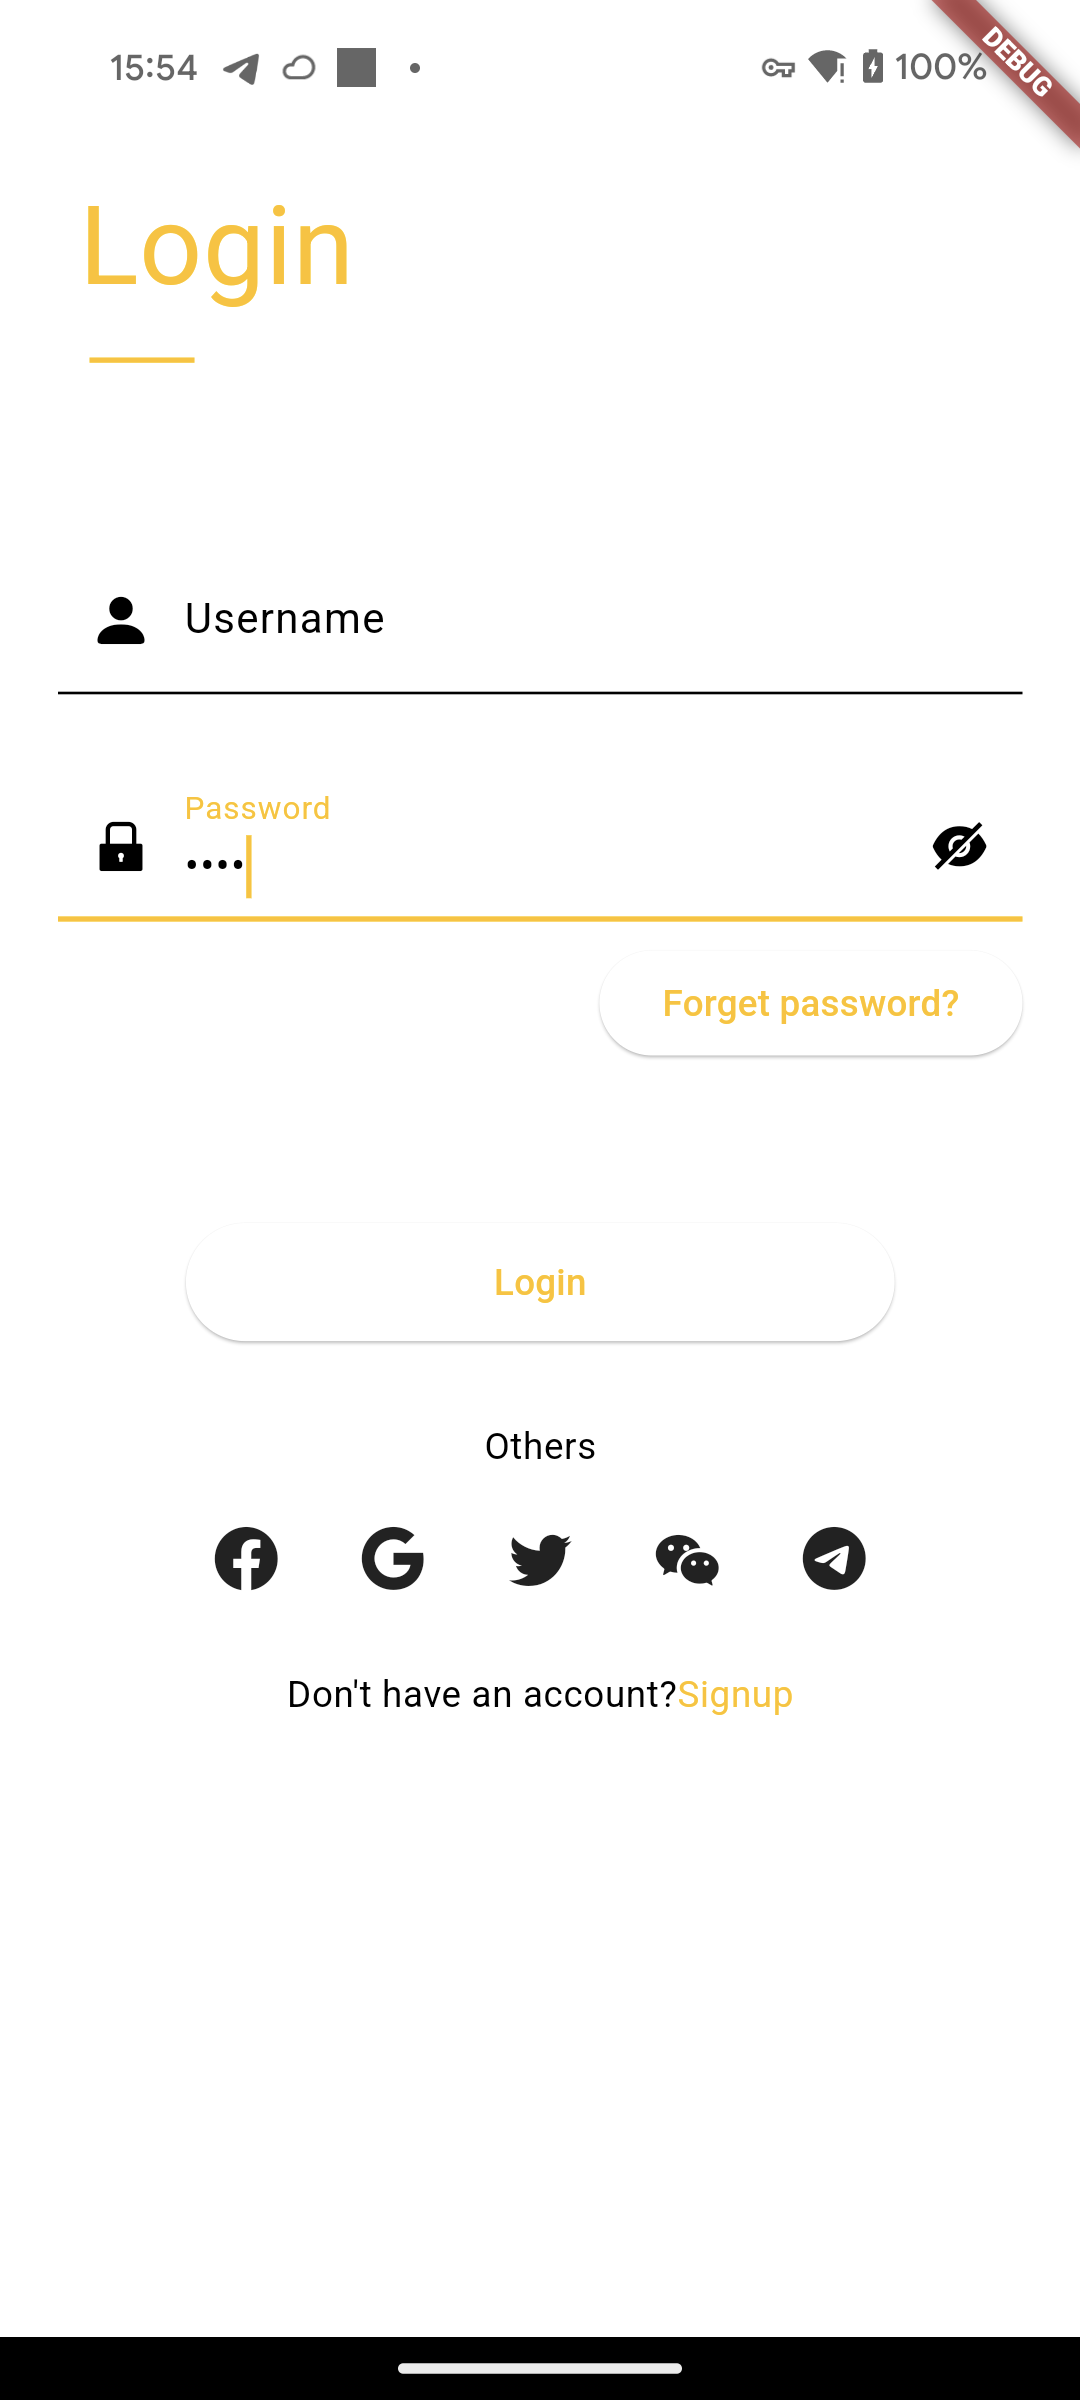
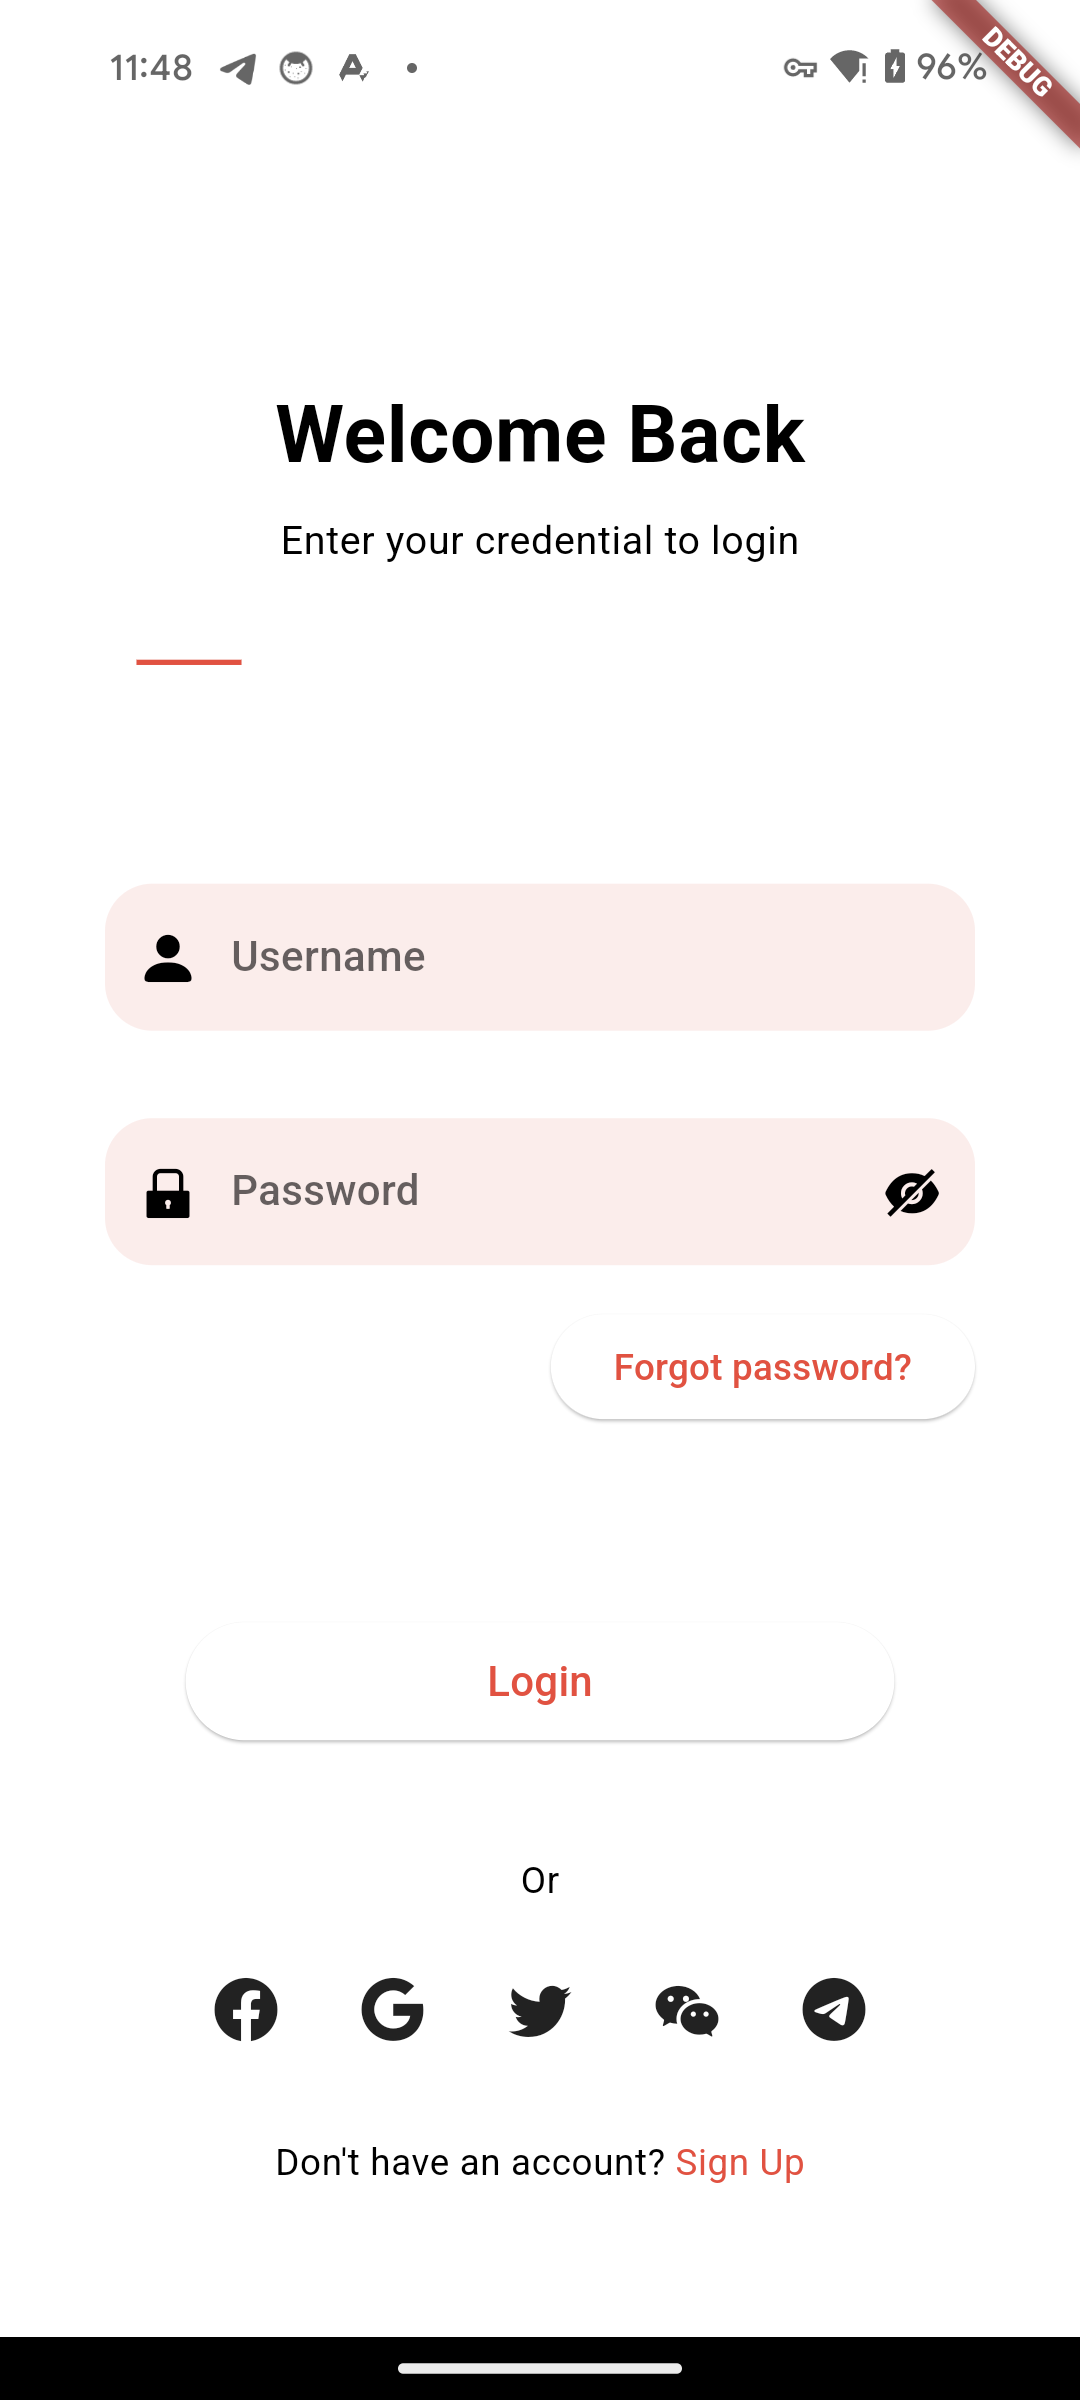
style: :lipstick: update login and signup page UI elements for better user experience

diff --git a/lib/routes/user/signup_page.dart b/lib/routes/user/signup_page.dart
@@ -1,0 +1,208 @@
+import 'package:flutter/material.dart';
+import 'package:flutter_hub/l10n/localization_intl.dart';
+import 'package:icons_plus/icons_plus.dart';
+
+import '../../common/index.dart';
+
+class SignupPage extends StatefulWidget {
+  @override
+  State<StatefulWidget> createState() => _SignupPageState();
+}
+
+class _SignupPageState extends State<SignupPage> {
+  final _formKey = GlobalKey<FormState>();
+  TextEditingController _unameController = TextEditingController();
+  TextEditingController _pwdController = TextEditingController();
+  TextEditingController _confirmpwdController = TextEditingController();
+  bool _isObscure = true;
+
+  @override
+  Widget build(BuildContext context) {
+    return Scaffold(
+      body: Form(
+        key: _formKey,
+        child: SingleChildScrollView(
+          child: Container(
+            padding: const EdgeInsets.symmetric(horizontal: 40),
+            height: MediaQuery.of(context).size.height - 50,
+            width: double.infinity,
+            child: Column(
+              mainAxisAlignment: MainAxisAlignment.spaceEvenly,
+              crossAxisAlignment: CrossAxisAlignment.stretch,
+              children: <Widget>[
+                SizedBox(
+                  height: kToolbarHeight,
+                ),
+                const SizedBox(height: 60.0),
+                buildTitle(),
+                const SizedBox(height: 10),
+                buildTitleLine(),
+                const SizedBox(height: 70.0),
+                buildUnameTextField(),
+                const SizedBox(height: 20.0),
+                buildPasswordTextField(context),
+                const SizedBox(height: 20.0),
+                buildConfirmPasswordTextField(context),
+                const SizedBox(height: 60.0),
+                buildSignupButton(context),
+                const SizedBox(height: 30.0),
+                buildLoginText(context),
+              ],
+            ),
+          ),
+        ),
+      ),
+    );
+  }
+
+  Padding buildTitle() {
+    return Padding(
+      padding: EdgeInsets.all(8.0),
+      child: Column(
+        children: [
+          Text(
+            WanLocalizations.of(context).signup_title,
+            style: TextStyle(fontSize: 30, fontWeight: FontWeight.bold),
+          ),
+          const SizedBox(height: 8),
+          Text(WanLocalizations.of(context).signup_subtitle, style: TextStyle(fontSize: 15)),
+        ],
+      ),
+    );
+  }
+
+  Padding buildTitleLine() {
+    return Padding(
+      padding: EdgeInsets.only(left: 12.0, top: 4.0),
+      child: Align(
+        alignment: Alignment.bottomLeft,
+        child: Container(
+          color: Theme.of(context).primaryColor,
+          width: 40.0,
+          height: 2.0,
+        ),
+      ),
+    );
+  }
+
+  TextFormField buildUnameTextField() {
+    return TextFormField(
+      controller: _unameController,
+      decoration: InputDecoration(
+        hintText: WanLocalizations.of(context).signup_username_label,
+        prefixIcon: Icon(Bootstrap.person_fill),
+        border: OutlineInputBorder(borderRadius: BorderRadius.circular(18), borderSide: BorderSide.none),
+        fillColor: Theme.of(context).primaryColor.withOpacity(0.1),
+        filled: true,
+      ),
+      validator: (v) {
+        return v == null || v.trim().isNotEmpty ? null : WanLocalizations.of(context).signup_username_validator;
+      },
+    );
+  }
+
+  TextFormField buildPasswordTextField(BuildContext context) {
+    return TextFormField(
+      controller: _pwdController,
+      obscureText: _isObscure,
+      decoration: InputDecoration(
+        hintText: WanLocalizations.of(context).signup_password_label,
+        prefixIcon: Icon(AntDesign.lock_fill),
+        border: OutlineInputBorder(borderRadius: BorderRadius.circular(18), borderSide: BorderSide.none),
+        fillColor: Theme.of(context).primaryColor.withOpacity(0.1),
+        filled: true,
+        suffixIcon: IconButton(
+          icon: Icon(
+            _isObscure ? AntDesign.eye_invisible_fill : AntDesign.eye_fill,
+          ),
+          onPressed: () {
+            setState(() {
+              _isObscure = !_isObscure;
+            });
+          },
+        ),
+      ),
+      validator: (v) {
+        return v == null || v.trim().isNotEmpty ? null : WanLocalizations.of(context).signup_password_validator;
+      },
+    );
+  }
+
+  TextFormField buildConfirmPasswordTextField(BuildContext context) {
+    return TextFormField(
+      controller: _confirmpwdController,
+      obscureText: _isObscure,
+      decoration: InputDecoration(
+        hintText: WanLocalizations.of(context).signup_confirm_password_label,
+        prefixIcon: Icon(AntDesign.lock_fill),
+        border: OutlineInputBorder(borderRadius: BorderRadius.circular(18), borderSide: BorderSide.none),
+        fillColor: Theme.of(context).primaryColor.withOpacity(0.1),
+        filled: true,
+        suffixIcon: IconButton(
+          icon: Icon(
+            _isObscure ? AntDesign.eye_invisible_fill : AntDesign.eye_fill,
+          ),
+          onPressed: () {
+            setState(() {
+              _isObscure = !_isObscure;
+            });
+          },
+        ),
+      ),
+      validator: (v) {
+        return v == null || v.trim().isNotEmpty ? null : WanLocalizations.of(context).signup_confirm_password_validator;
+      },
+    );
+  }
+
+  Align buildSignupButton(BuildContext context) {
+    return Align(
+      child: SizedBox(
+        height: 45.0,
+        width: 270.0,
+        child: ElevatedButton(
+          child: Text(
+            WanLocalizations.of(context).signup_btn_signup,
+            style: TextStyle(fontSize: 16),
+          ),
+          onPressed: () {
+            // if (_formKey.currentState.validate()) {
+            //   /// 只有输入内容符合通过要求才能到达此处
+            //   _formKey.currentState.save();
+
+            /// TODO 执行注册方法
+            // print('email:$_username, password:$_password');
+            // }
+          },
+        ),
+      ),
+    );
+  }
+
+  Align buildLoginText(BuildContext context) {
+    return Align(
+      alignment: Alignment.center,
+      child: Padding(
+        padding: EdgeInsets.only(top: 10.0),
+        child: Row(
+          mainAxisAlignment: MainAxisAlignment.center,
+          children: <Widget>[
+            Text(WanLocalizations.of(context).signup_already_have_an_account),
+            GestureDetector(
+              child: Text(
+                WanLocalizations.of(context).signup_btn_login,
+                style: TextStyle(
+                  color: Theme.of(context).primaryColor,
+                ),
+              ),
+              onTap: () {
+                /// TODO 执行登录方法
+                Navigator.of(context).pushNamed(Constants.loginRoutePath);
+              },
+            ),
+          ],
+        ),
+      ),
+    );
+  }
+}

diff --git a/lib/routes/user/login_page.dart b/lib/routes/user/login_page.dart
@@ -58,29 +58,35 @@ class _LoginPageState extends State<LoginPage> {
     return Scaffold(
         body: Form(
             key: _formKey,
-            child: ListView(
-              padding: EdgeInsets.symmetric(horizontal: 22.0),
-              children: <Widget>[
-                SizedBox(
-                  height: kToolbarHeight,
-                ),
-                const SizedBox(height: 60.0),
-                buildTitle(),
-                const SizedBox(height: 20),
-                buildTitleLine(),
-                const SizedBox(height: 70.0),
-                buildUnameTextField(),
-                const SizedBox(height: 30.0),
-                buildPasswordTextField(context),
-                buildForgetPasswordText(context),
-                const SizedBox(height: 60.0),
-                buildLoginButton(context),
-                const SizedBox(height: 30.0),
-                buildOtherLoginText(),
-                buildOtherMethod(context),
-                buildSignupText(context),
-              ],
-            )));
+            child: SingleChildScrollView(
+                child: Container(
+                    padding: const EdgeInsets.symmetric(horizontal: 40),
+                    height: MediaQuery.of(context).size.height - 50,
+                    width: double.infinity,
+                    child: Column(
+                      mainAxisAlignment: MainAxisAlignment.spaceEvenly,
+                      crossAxisAlignment: CrossAxisAlignment.stretch,
+                      children: <Widget>[
+                        SizedBox(
+                          height: kToolbarHeight,
+                        ),
+                        const SizedBox(height: 60.0),
+                        buildTitle(),
+                        const SizedBox(height: 10),
+                        buildTitleLine(),
+                        const SizedBox(height: 70.0),
+                        buildUnameTextField(),
+                        const SizedBox(height: 20.0),
+                        buildPasswordTextField(context),
+                        buildForgetPasswordText(context),
+                        const SizedBox(height: 60.0),
+                        buildLoginButton(context),
+                        const SizedBox(height: 30.0),
+                        buildOtherLoginText(),
+                        buildOtherMethod(context),
+                        buildSignupText(context),
+                      ],
+                    )))));
   }
 
   Padding buildTitle() {
@@ -186,7 +192,7 @@ class _LoginPageState extends State<LoginPage> {
         child: ElevatedButton(
           child: Text(
             WanLocalizations.of(context).login_btn_login,
-            style: TextStyle(fontSize: 20),
+            style: TextStyle(fontSize: 16),
           ),
           onPressed: () {
             // if (_formKey.currentState.validate()) {
